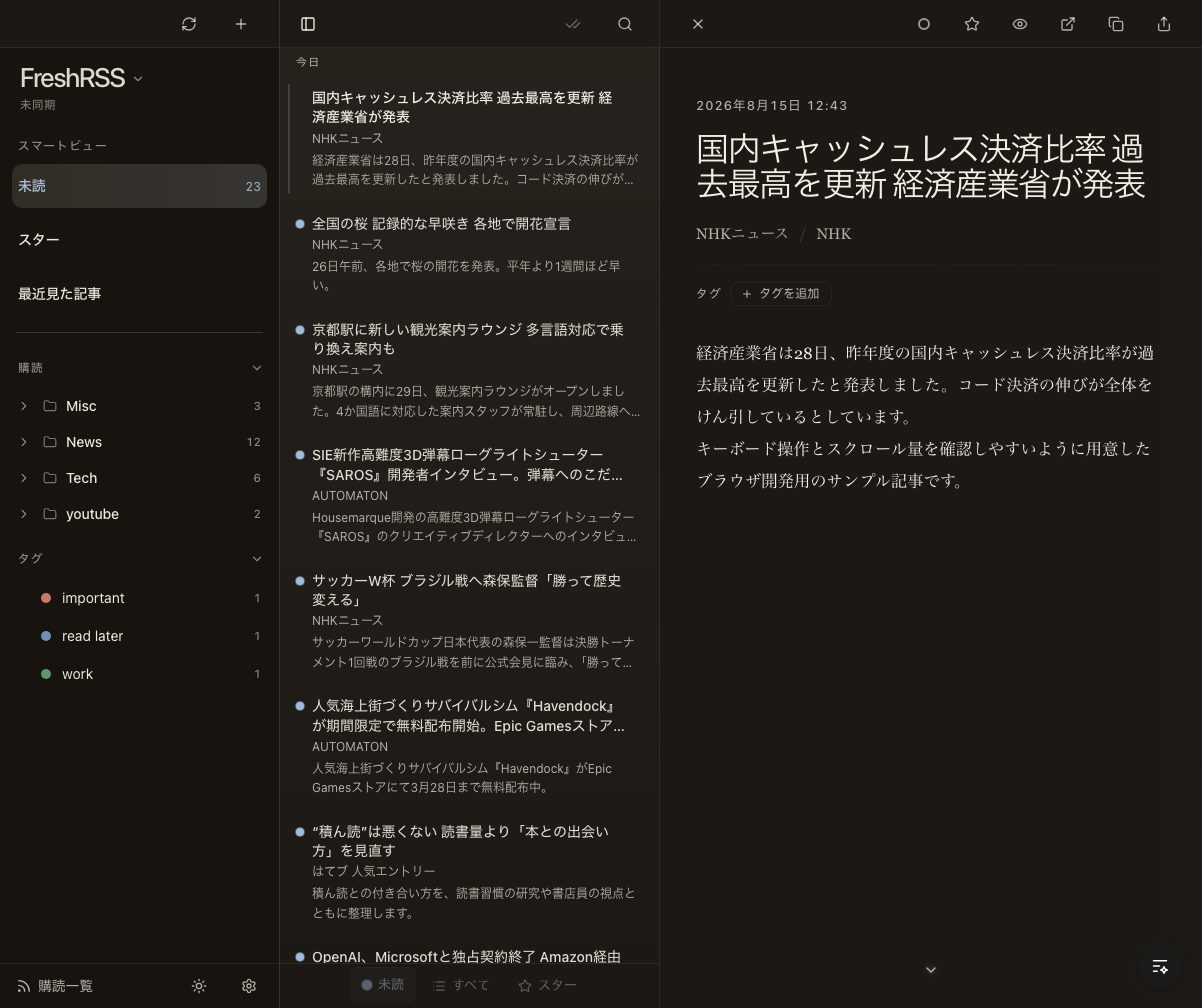
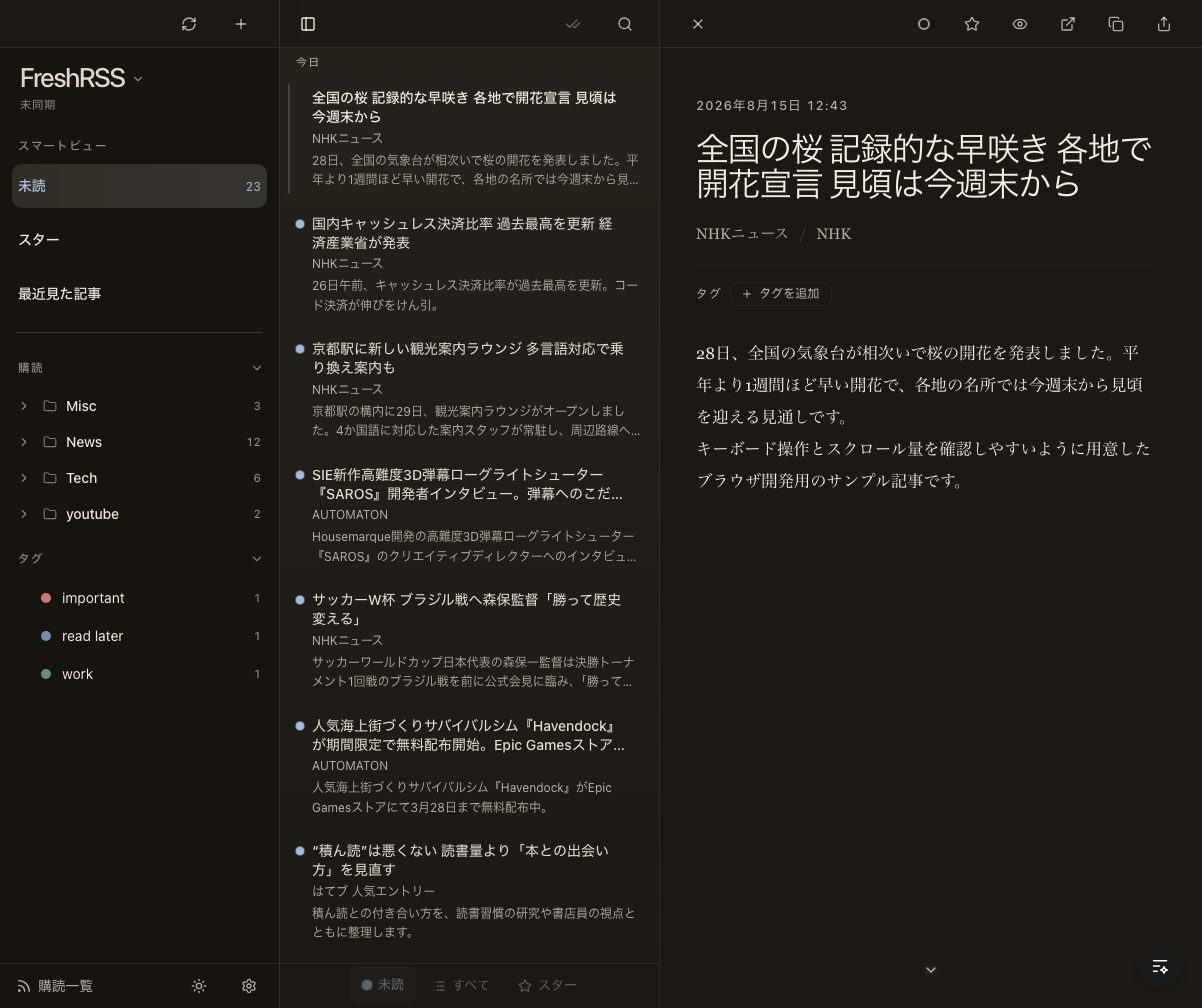
docs: feature the cherry blossom article at the top of reader screenshots

diff --git a/src/dev/mock-data.ts b/src/dev/mock-data.ts
@@ -383,9 +383,9 @@ const generatedMockArticles = [
   createMockArticle({
     id: "art-11",
     feedId: "feed-nhk",
-    title: "国内キャッシュレス決済比率 過去最高を更新 経済産業省が発表",
+    title: "全国の桜 記録的な早咲き 各地で開花宣言 見頃は今週末から",
     summary:
-      "経済産業省は28日、昨年度の国内キャッシュレス決済比率が過去最高を更新したと発表しました。コード決済の伸びが全体をけん引しているとしています。",
+      "28日、全国の気象台が相次いで桜の開花を発表しました。平年より1週間ほど早い開花で、各地の名所では今週末から見頃を迎える見通しです。",
     url: "https://news.web.nhk/newsweb/na/na-k10015162811000",
     author: "NHK",
     date: now,
@@ -695,10 +695,10 @@ const mockArticleSeeds = [
   {
     id: "art-7",
     feed_id: "feed-nhk",
-    title: "全国の桜 記録的な早咲き 各地で開花宣言",
+    title: "国内キャッシュレス決済比率 過去最高を更新 経済産業省が発表",
     content_sanitized:
-      "<p>26日午前、各地の気象台が桜の開花を発表しました。平年より1週間ほど早い開花となっています。</p>",
-    summary: "26日午前、各地で桜の開花を発表。平年より1週間ほど早い。",
+      "<p>26日午前、経済産業省は昨年度の国内キャッシュレス決済比率が過去最高を更新したと発表しました。</p>",
+    summary: "26日午前、キャッシュレス決済比率が過去最高を更新。コード決済が伸びをけん引。",
     url: "https://www3.nhk.or.jp/news/html/example.html",
     author: "NHK",
     published_at: mockArticlePublishedAt(now, 11, 30),
